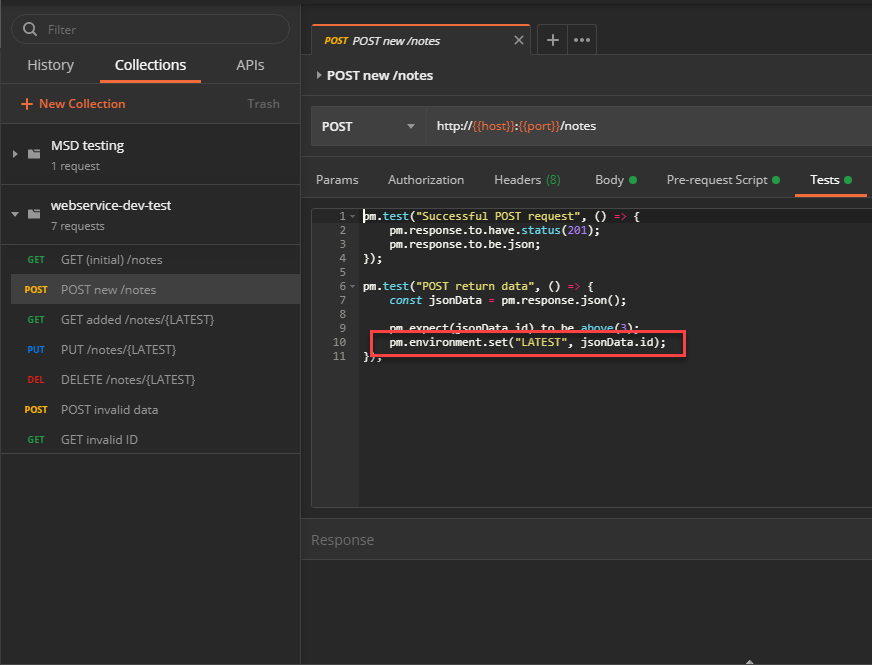
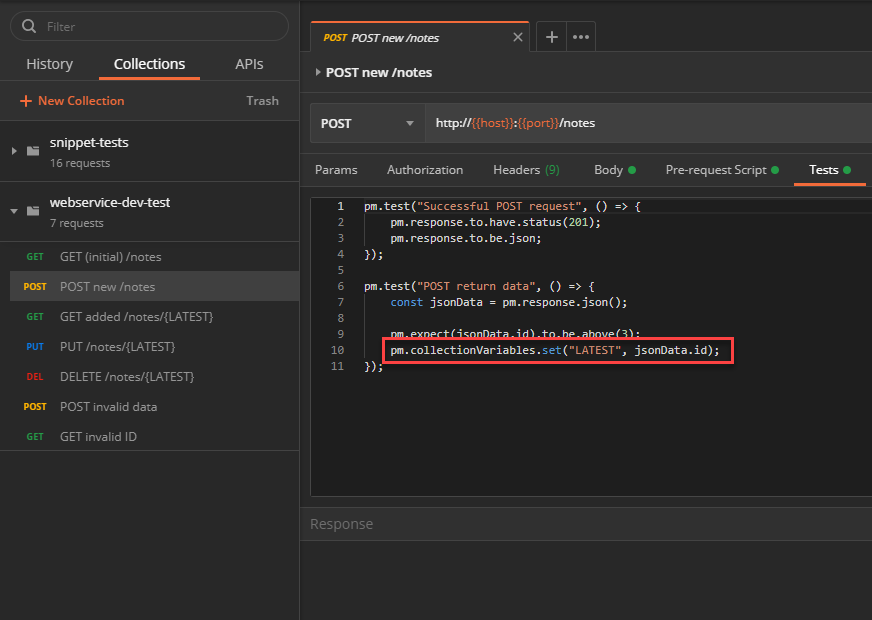
update postman tutorial

diff --git a/testing/postman/README.md b/testing/postman/README.md
@@ -11,7 +11,7 @@ $ npm start
 ## Prerequisites
 In this exercise, we will use [Postman](https://www.postman.com/) to test our ReST API. So at first, please install (the latest version of) [Postman](https://www.postman.com/downloads/) on your system. Please do **not** use the Browser Plugin, because it is **deprecated**!
 
-On the first start, you will be asked to register/login. You can skip this with *Skip signing in and take me straight to the app* on the bottom
+On the first start, you will be asked to register/login. You can skip this with *Skip signing in and take me straight to the app* on the bottom.  
 ![postman first start](img/postman_login.png)
 
 > The registration is free and offers you some advantages, e.g. share your history and settings through multiple installation. it would be also necessary if you want to work collaborative with postman. but for this exercise/tutorial, it wouldn't be needed.
@@ -19,7 +19,7 @@ On the first start, you will be asked to register/login. You can skip this with 
 To run the service, you also need [NodeJS](https://nodejs.org/en/) (I will recommend the LTS Version!) and [`npm`](https://www.npmjs.com/) or [`yarn`](https://classic.yarnpkg.com/en/).
 
 ## Postman application
-Postman comes with many features. For this first introduction, we will focus on the Request pane an in there on some sub areas.
+Postman comes with many features. For this first introduction, we will focus on the Request pane an in there on some sub areas.  
 ![postman window](img/postman.png)
 
 Like in a browser, you can open multiple Request tabs. On the top, you can select the wanted **HTTP Method** and enter the URL, which you will request. All send requests would be saved inside the **History** on the left side.
@@ -39,7 +39,7 @@ Before we start with (automatically evaluated) tests, familiarize yourself with 
 Use the known implemented endpoints and make some requests with the different HTTP-methods.
 
 ### GET
-The simplest one will be a GET-Request. Like if you're surfing with your browser, add the URI to the `/notes` resources and **Send** the request. If everything works fine, you will get a response with the 3 pre-defined notes.
+The simplest one will be a GET-Request. Like if you're surfing with your browser, add the URI to the `/notes` resources and **Send** the request. If everything works fine, you will get a response with the 3 pre-defined notes.  
 ![postman GET](img/postman_get.png).
 
 Try also to get a specific **note**. What happens, when you try to get a note that doesn't exists?
@@ -50,7 +50,7 @@ Try also to get a specific **note**. What happens, when you try to get a note th
 
 ### POST
 For a POST, you have first to switch the HTTP-Method left to the URL.  
-When we send a POST-Request, we typically need to send a Request-Body to our service. To add that, switch on the Request-Area to the *Body* tab and enter **raw** data. On the dropdown on the right, you can switch to a specific data type (e.g. JSON), which will bring you some syntax highlighting, additionally the appropriate content-type header is added to the request.
+When we send a POST-Request, we typically need to send a Request-Body to our service. To add that, switch on the Request-Area to the *Body* tab and enter **raw** data. On the dropdown on the right, you can switch to a specific data type (e.g. JSON), which will bring you some syntax highlighting, additionally the appropriate content-type header is added to the request.  
 ![postman POST](img/postman_post.png)
 
 - [x] POST new data
@@ -139,8 +139,18 @@ Download the [file](./webservice-dev-test.postman_collection.json) and import it
 ![import collection](img/postman_import_collection03.png)
 
 Here, you will find some tests for our [notes API](../rest/). When you take a deeper look in them, you will see that they are partially interdependent. Therefore, the order is not arbitrary. For example, the second test of **POST new /notes** not only checks the response, but also sets a variable that is accessed by the following tests.
+In this case, we're setting a `collectionVariable`. If you want to know more about variables in Postman, take a look [here](https://learning.postman.com/docs/postman/scripts/postman-sandbox-api-reference/#pmvariables).
 
 ![test sets variable](img/postman_set_variable_for_further_tests.png)
+
+To run the collection, switch to the extended view of the collection and click **Run**.
+
+![run collection](img/postman_run_collection01.png)
+
+Inside the new window, you can run all tests in a row.
+
+![run collection](img/postman_run_collection02.png)
+
 
 ### write own tests
 These existing tests should serve as an introduction to the Postman test API. Take a closer look at them, including what happens in **Pre-request Script** and **Body**. Try to extend them and create your own tests.
